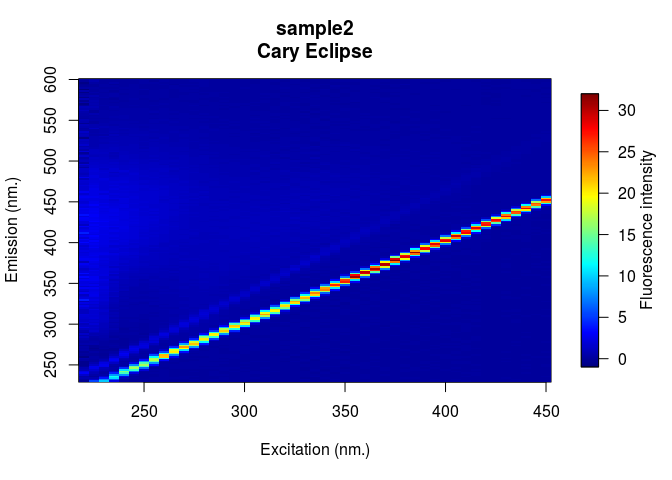
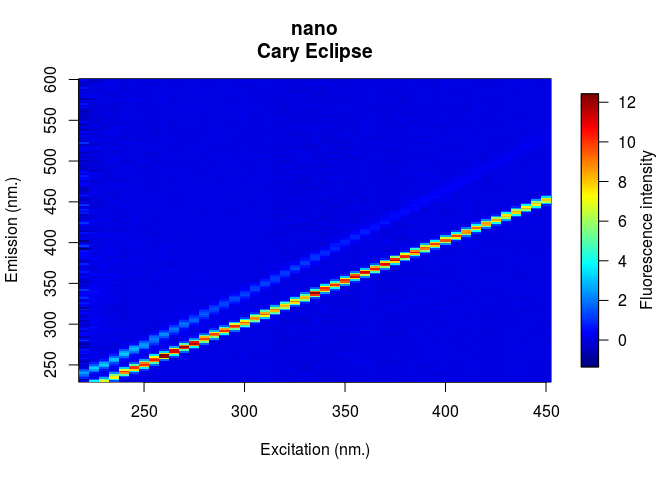
README work

diff --git a/README.md b/README.md
@@ -15,9 +15,9 @@ ls("package:eemR")
     ##  [5] "eem_cut"                 "eem_export_matlab"      
     ##  [7] "eem_extract"             "eem_fluorescence_index" 
     ##  [9] "eem_humification_index"  "eem_inner_filter_effect"
-    ## [11] "eem_raman_normalisation" "eem_read"               
-    ## [13] "eem_remove_blank"        "eem_remove_scattering"  
-    ## [15] "eem_sample_names"        "eem_sample_names<-"     
+    ## [11] "eem_names"               "eem_names<-"            
+    ## [13] "eem_raman_normalisation" "eem_read"               
+    ## [15] "eem_remove_blank"        "eem_remove_scattering"  
     ## [17] "eem_set_wavelengths"
 
 The lastest release of the package from CRAN can be installed with:
@@ -57,41 +57,45 @@ At the moment I need files from:
 library(eemR)
 
 # Reading a single eem
-file <- system.file("extdata/cary/eem", "sample1.csv", package = "eemR")
+file <- system.file("extdata/cary/scans_day_1", "sample1.csv", package = "eemR")
 eem <- eem_read(file)
 
 plot(eem)
-
-# Reading a folder
-folder <- system.file("extdata/cary/eem", package = "eemR")
-eem <- eem_read(folder)
-
-eem_sample_names(eem)
-```
-
-    ## [1] "sample1" "sample2" "sample3"
-
-``` r
-plot(eem) # Plot the first eem
 ```
 
 ![](inst/images/README-unnamed-chunk-4-1.png)<!-- -->
 
 ``` r
-plot(eem, which = 2) # Plot the second eem
+# Reading a folder
+folder <- system.file("extdata/cary/scans_day_1", package = "eemR")
+eem <- eem_read(folder)
+
+eem_names(eem)
+```
+
+    ## [1] "nano"    "sample1" "sample2" "sample3"
+
+``` r
+plot(eem) # Plot the first eem
 ```
 
 ![](inst/images/README-unnamed-chunk-4-2.png)<!-- -->
+
+``` r
+plot(eem, which = 2) # Plot the second eem
+```
+
+![](inst/images/README-unnamed-chunk-4-3.png)<!-- -->
 
 ``` r
 # Aqualog EEM
 folder <- system.file("extdata/aqualog", package = "eemR")
 eem <- eem_read(folder)
 
-plot(eem) # Plot the first eem
+plot(eem, show_peaks = TRUE) # Plot the first eem
 ```
 
-![](inst/images/README-unnamed-chunk-4-3.png)<!-- -->
+![](inst/images/README-unnamed-chunk-4-4.png)<!-- -->
 
 Shimadzu files
 ==============
@@ -146,21 +150,21 @@ Changing sample names
 ---------------------
 
 ``` r
-folder <- system.file("extdata/cary/eem", package = "eemR")
+folder <- system.file("extdata/cary/scans_day_1", package = "eemR")
 eem <- eem_read(folder)
 
-eem_sample_names(eem)
+eem_names(eem)
 ```
 
-    ## [1] "sample1" "sample2" "sample3"
+    ## [1] "nano"    "sample1" "sample2" "sample3"
 
 ``` r
-eem_sample_names(eem) <- c("A", "B", "C")
+eem_names(eem) <- c("A", "B", "C", "D")
 
-eem_sample_names(eem)
+eem_names(eem)
 ```
 
-    ## [1] "A" "B" "C"
+    ## [1] "A" "B" "C" "D"
 
 Implemented metrics
 ===================
@@ -178,67 +182,72 @@ The current implemented metrics are:
 ``` r
 library(eemR)
 
-folder <- system.file("extdata/cary/eem", package = "eemR")
+folder <- system.file("extdata/cary/scans_day_1", package = "eemR")
 eem <- eem_read(folder)
 
 eem_fluorescence_index(eem, verbose = FALSE)
 ```
 
-    ## Source: local data frame [3 x 2]
+    ## Source: local data frame [4 x 2]
     ## 
-    ##    sample       fi
-    ##     (chr)    (dbl)
-    ## 1 sample1 1.264782
-    ## 2 sample2 1.455333
-    ## 3 sample3 1.329413
+    ##    sample         fi
+    ##     (chr)      (dbl)
+    ## 1    nano -0.5932057
+    ## 2 sample1  1.2647823
+    ## 3 sample2  1.4553330
+    ## 4 sample3  1.3294132
 
 ``` r
 eem_coble_peaks(eem, verbose = FALSE)
 ```
 
-    ## Source: local data frame [3 x 6]
+    ## Source: local data frame [4 x 6]
     ## 
-    ##    sample        b         t        a        m         c
-    ##     (chr)    (dbl)     (dbl)    (dbl)    (dbl)     (dbl)
-    ## 1 sample1 1.545298 1.0603312 3.731836 2.424096 1.8149415
-    ## 2 sample2 1.262997 0.6647042 1.583489 1.023593 0.7709074
-    ## 3 sample3 1.474086 1.3162812 8.416034 6.063355 6.3179129
+    ##    sample         b         t        a          m         c
+    ##     (chr)     (dbl)     (dbl)    (dbl)      (dbl)     (dbl)
+    ## 1    nano 0.8745673 0.1401188 0.140175 0.09653326 0.1255788
+    ## 2 sample1 1.5452981 1.0603312 3.731836 2.42409567 1.8149415
+    ## 3 sample2 1.2629968 0.6647042 1.583489 1.02359302 0.7709074
+    ## 4 sample3 1.4740862 1.3162812 8.416034 6.06335506 6.3179129
 
 ``` r
 eem_humification_index(eem, verbose = FALSE)
 ```
 
-    ## Source: local data frame [3 x 2]
+    ## Source: local data frame [4 x 2]
     ## 
-    ##    sample       hix
-    ##     (chr)     (dbl)
-    ## 1 sample1  6.379562
-    ## 2 sample2  4.254848
-    ## 3 sample3 13.024623
+    ##    sample        hix
+    ##     (chr)      (dbl)
+    ## 1    nano  0.5568136
+    ## 2 sample1  6.3795618
+    ## 3 sample2  4.2548483
+    ## 4 sample3 13.0246234
 
 ``` r
 eem_humification_index(eem, verbose = FALSE, scale = TRUE)
 ```
 
-    ## Source: local data frame [3 x 2]
+    ## Source: local data frame [4 x 2]
     ## 
     ##    sample       hix
     ##     (chr)     (dbl)
-    ## 1 sample1 0.8644906
-    ## 2 sample2 0.8096995
-    ## 3 sample3 0.9286968
+    ## 1    nano 0.3576623
+    ## 2 sample1 0.8644906
+    ## 3 sample2 0.8096995
+    ## 4 sample3 0.9286968
 
 ``` r
 eem_biological_index(eem, verbose = FALSE)
 ```
 
-    ## Source: local data frame [3 x 2]
+    ## Source: local data frame [4 x 2]
     ## 
     ##    sample       bix
     ##     (chr)     (dbl)
-    ## 1 sample1 0.7062640
-    ## 2 sample2 0.8535423
-    ## 3 sample3 0.4867927
+    ## 1    nano 2.6812045
+    ## 2 sample1 0.7062640
+    ## 3 sample2 0.8535423
+    ## 4 sample3 0.4867927
 
 PARAFAC pre-processing
 ======================
@@ -259,10 +268,10 @@ Blank removal
 The `eem_remove_blank()` function subtract blank (miliq) water from eem. Scatter bands can often be reduced by subtracting water blank (Murphy et al. 2013).
 
 ``` r
-file <- system.file("extdata/cary/eem", "sample1.csv", package = "eemR")
+file <- system.file("extdata/cary/scans_day_1", "sample1.csv", package = "eemR")
 eem <- eem_read(file)
 
-file <- system.file("extdata/cary", "nano.csv", package = "eemR")
+file <- system.file("extdata/cary/scans_day_1", "nano.csv", package = "eemR")
 blank <- eem_read(file)
 
 res <- eem_remove_blank(eem, blank)
@@ -292,7 +301,7 @@ Note that it is also possible to use thr [magrittr](https://cran.r-project.org/w
 ``` r
 library(magrittr)
 
-file <- system.file("extdata/cary/eem", "sample1.csv", package = "eemR")
+file <- system.file("extdata/cary/scans_day_1", "sample1.csv", package = "eemR")
 file %>% 
   eem_read() %>% 
   eem_remove_scattering(type = "raman", order = 1, width = 10) %>% 
@@ -355,7 +364,7 @@ Export to Matlab
 PARAFAC analysis was made easy with the fantastic Matlab [`drEEM`](http://www.models.life.ku.dk/drEEM) toolbox (Murphy et al. 2013). The function `eem_export_matlab()` can be used to export the EEMs into a `m-file` directly usable in Matlab by the `drEEM` toolbox.
 
 ``` r
-folder <- system.file("extdata/cary/eem", package = "eemR")
+folder <- system.file("extdata/cary/scans_day_1", package = "eemR")
 eem <- eem_read(folder)
 
 filename <- paste(tempfile(), ".mat", sep = "")
@@ -363,14 +372,14 @@ filename <- paste(tempfile(), ".mat", sep = "")
 eem_export_matlab(filename, eem)
 ```
 
-    ## Successfully exported 3 EEMs to /tmp/RtmpCpATy7/file20bb3170eac8.mat.
+    ## Successfully exported 4 EEMs to /tmp/RtmpTd4UyM/file17df535fe429.mat.
 
 ``` r
 # It is also possible to export more than one object at time
 eem_export_matlab(filename, eem, eem)
 ```
 
-    ## Successfully exported 6 EEMs to /tmp/RtmpCpATy7/file20bb3170eac8.mat.
+    ## Successfully exported 8 EEMs to /tmp/RtmpTd4UyM/file17df535fe429.mat.
 
 Note that the name of the structure generated by the function will be `OriginalData` to *complement* with PARAFAC standard. Then, the importation into Matlab is made easy using the `load()` function. Please note that there is a bug preventing to keep matrix dimension. Simply use the `reshape()` function after you exported data.
 
